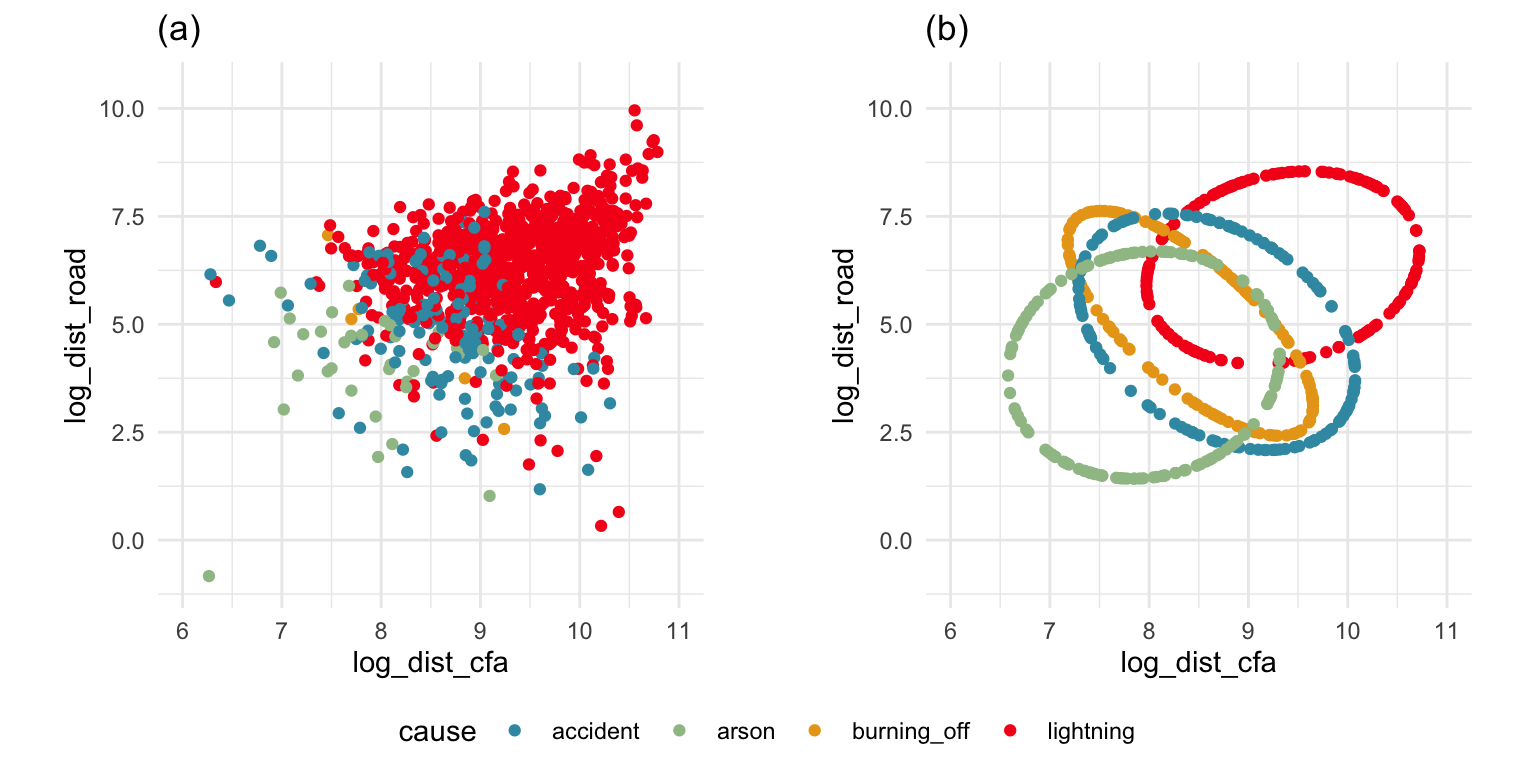
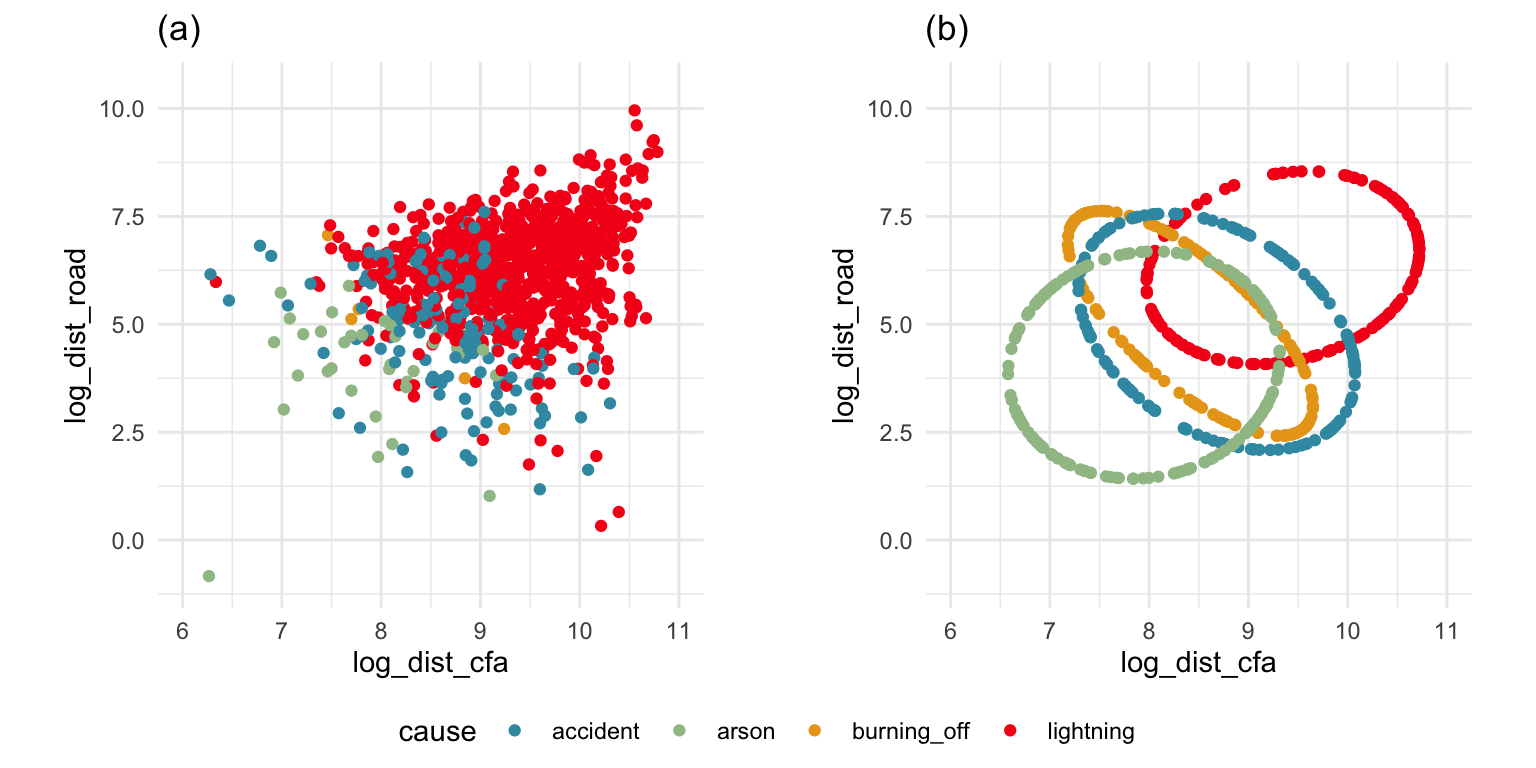
insight for LDA chapter

diff --git a/docs/LDA.html b/docs/LDA.html
@@ -812,7 +812,7 @@ bm 0.18 0.20 0.16 0.31</code></pre>
 </figure>
 </div>
 <div class="insight">
-<p>The LDA boundaries divide the classes in the discriminant space, and the remaining directions are irrelevant.</p>
+<p>From the tour, we can see that te LDA boundaries divide the classes only in the discriminant space. LDA is not using any of the two orthogonal directions in it’s model fit.</p>
 </div>
 </section><section id="exercises" class="level2 unnumbered"><h2 class="unnumbered anchored" data-anchor-id="exercises">Exercises</h2>
 <ol type="1">
